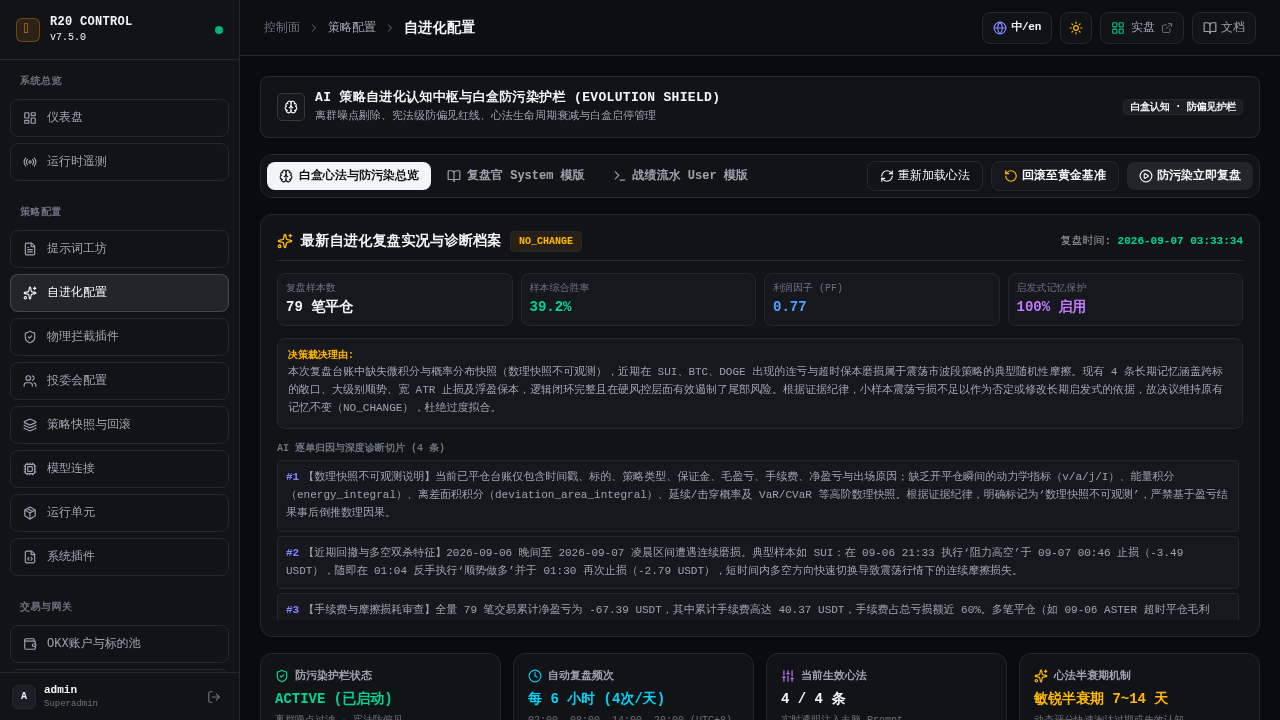
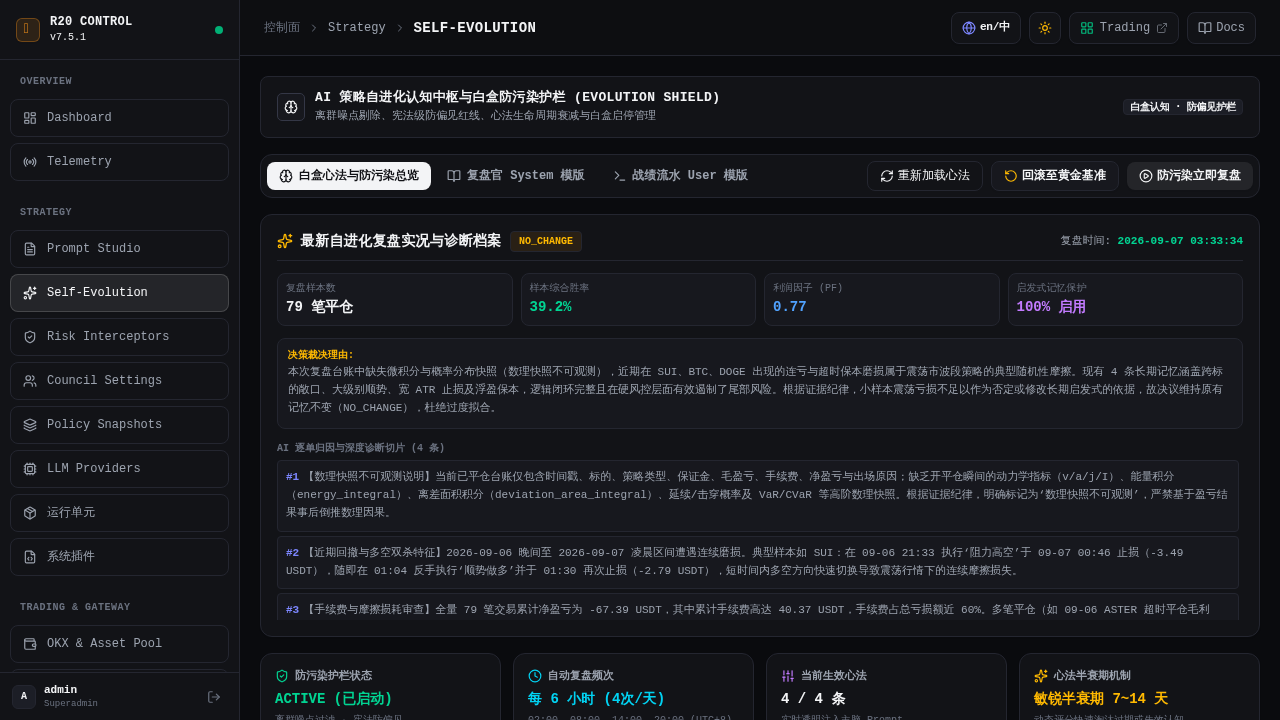
feat(release): 发布 R20量子交易系统 v7.5.1 - 修复自进化心法删除逻辑，彻底剔除过紧0.8R保本心法并升级为三阶利润棘轮

diff --git a/frontend/src/config/version.ts b/frontend/src/config/version.ts
@@ -4,7 +4,7 @@
  * 以后发版只需在此处修改版本号，全站组件与页面自动全局同步！
  */
 
-export const APP_VERSION_RAW = '7.5.0'
+export const APP_VERSION_RAW = '7.5.1'
 export const APP_VERSION = `v${APP_VERSION_RAW}`
 export const APP_NAME = 'R20量子交易系统'
 export const APP_NAME_EN = 'R20 Quantum Trading System'

diff --git a/scripts/evolution_shield.py b/scripts/evolution_shield.py
@@ -433,15 +433,12 @@ def admin_mutate(operation, *, texts=None, index=None, lesson_id=None, expected_
                 if target is None:
                     raise IndexError("Memory id not found")
                 removed = target["rule_text"]
+                lessons = [i for i in old if i["id"] != lesson_id]
             else:
                 if index is None or index < 0 or index >= len(active):
                     raise IndexError("Memory index not found")
                 removed = active.pop(index)
-            # Deletion is a tombstone, so later review cannot resurrect it.
-            lessons = copy.deepcopy(old)
-            for item in lessons:
-                if item["rule_text"] == removed:
-                    item["enabled"] = False
+                lessons = [i for i in old if i["rule_text"] != removed]
         elif operation in {"add", "replace"}:
             candidates = list(texts or [])
             if operation == "add":

diff --git a/r20_backend/version.py b/r20_backend/version.py
@@ -1,6 +1,6 @@
 """Central Source of Truth for R20 Quantum Trading System version and branding."""
 
-__version__ = "7.5.0"
+__version__ = "7.5.1"
 APP_VERSION = f"v{__version__}"
 APP_NAME = "R20量子交易系统"
 APP_NAME_EN = "R20 Quantum Trading System"

diff --git a/README.md b/README.md
@@ -11,7 +11,7 @@
                                                                                                |___/ 
 ```
 
-[![Release](https://img.shields.io/badge/release-v7.5.0-orange.svg?style=flat-square)](https://github.com/555cute/r20-quantum-trader/releases/tag/v7.5.0)
+[![Release](https://img.shields.io/badge/release-v7.5.1-orange.svg?style=flat-square)](https://github.com/555cute/r20-quantum-trader/releases/tag/v7.5.1)
 [![LINUX DO](https://img.shields.io/badge/Community-LINUX%20DO-F97316?style=flat-square&logo=linux&logoColor=white)](https://linux.do/)
 [![License](https://img.shields.io/badge/license-MIT-green.svg?style=flat-square)](LICENSE)
 [![Python](https://img.shields.io/badge/python-3.10%2B-blue.svg?style=flat-square)](https://www.python.org/)
